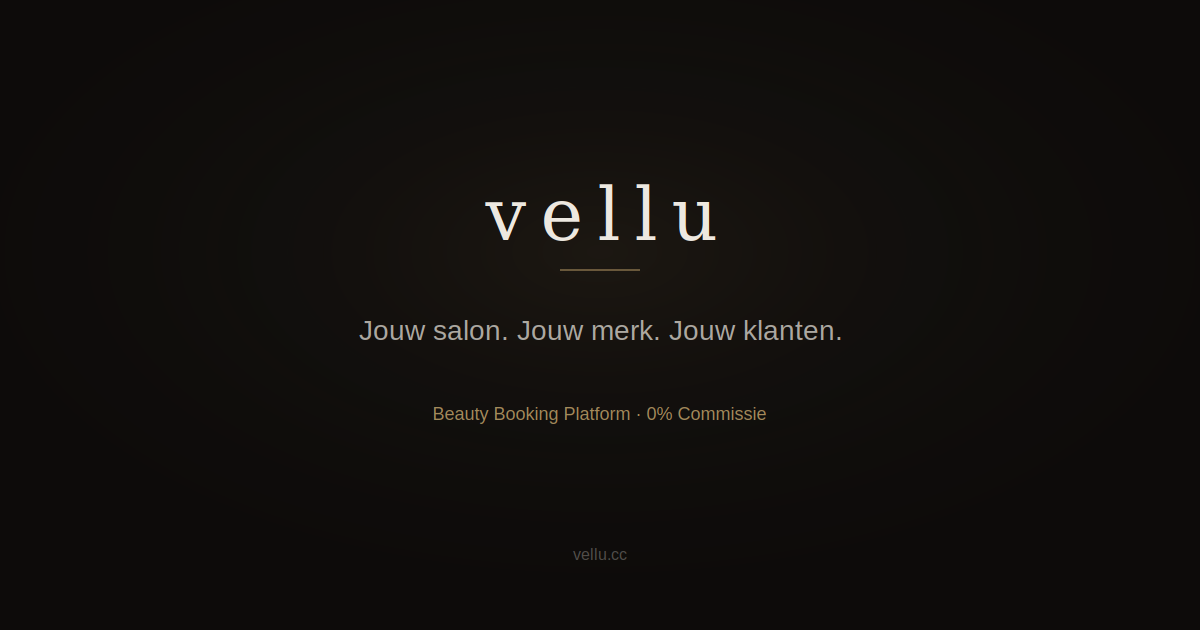
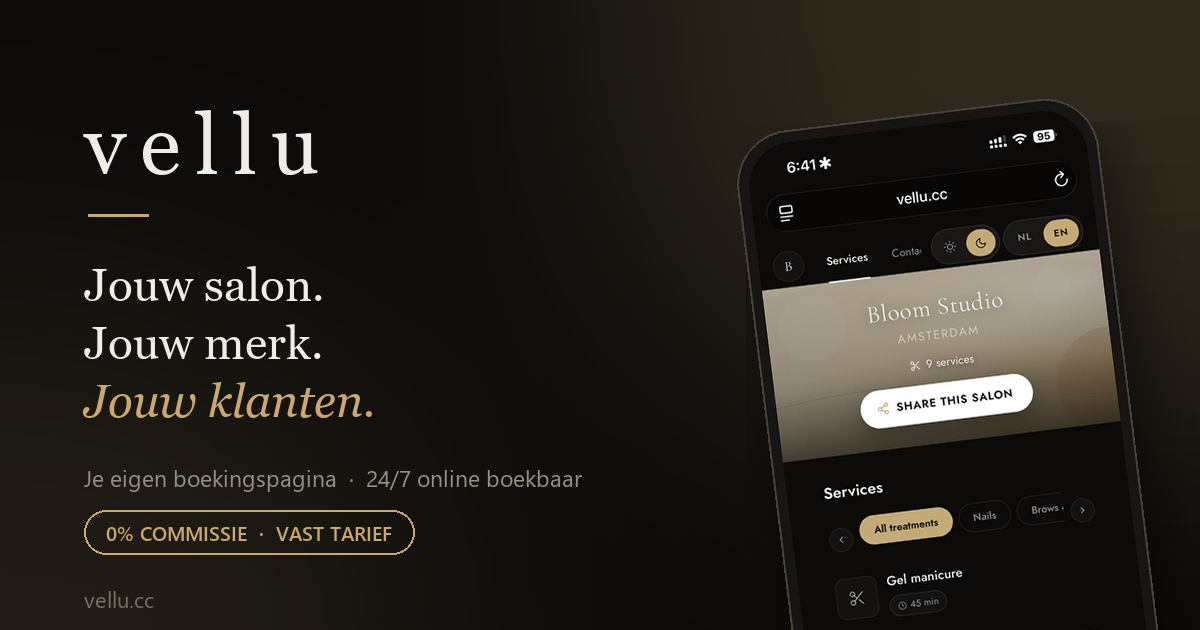
feat(landing): million-dollar pass - live demo-link, trust-line, product-og-image
Drie objectieve gaten t.o.v. top-SaaS landings gedicht:
- 'Bekijk een live voorbeeldpagina ->' onder de hero-telefoon, naar de
  demo-salon (/bloomstudio): screenshots overtuigen, klikken verkoopt.
- Bescheiden, feitelijke trust-line onder de hero-stats ('Gebruikt door
  salons in Nederland en het Caribisch gebied') - geen verzonnen quotes,
  wel echt bewijs. NL/EN/ES.
- Nieuwe og-image: echte boekingspagina in een gekantelde telefoon
  (vellu.cc zichtbaar in de adresbalk), merk-typografie + goud + 0%-pill,
  i.p.v. de kale wordmark-op-zwart. Dit is de eerste indruk bij elke
  gedeelde link in outreach-DM's.

diff --git a/src/LandingScreen.jsx b/src/LandingScreen.jsx
@@ -146,9 +146,27 @@ function LandingScreen({ onSelectSalon, onOwnerEnter, lang, setLang, salons = {}
                 </div>
               ))}
             </div>
+            {/* Quiet, truthful trust line — real salons in both markets use
+                Vellu today. No inflated numbers, no fabricated quotes. */}
+            <div className="hero-stats" style={{ display: "flex", marginTop: 22, fontSize: 11, color: c.textMuted, letterSpacing: "0.05em" }}>
+              {lang === "nl" ? "Gebruikt door salons in Nederland en het Caribisch gebied"
+                : lang === "es" ? "Utilizado por salones en los Países Bajos y el Caribe"
+                : "Used by salons in the Netherlands and the Caribbean"}
+            </div>
           </div>
           <div className="fade-up">
             <HeroPhoneMockup lang={lang} c={c} />
+            {/* "See it live" — screenshots convince, clicking sells. Links to
+                the seeded demo salon so a prospect can poke a REAL booking
+                page (clearly labelled as an example). */}
+            <div style={{ textAlign: "center", marginTop: 2 }}>
+              <button
+                onClick={() => navigate("/bloomstudio")}
+                style={{ background: "none", border: "none", cursor: "pointer", fontFamily: "'Jost',sans-serif", fontSize: 12, color: ACCENT, letterSpacing: "0.04em", padding: "8px 12px", borderBottom: `1px solid ${ACCENT}44` }}
+              >
+                {lang === "nl" ? "Bekijk een live voorbeeldpagina →" : lang === "es" ? "Ver una página de ejemplo en vivo →" : "See a live example page →"}
+              </button>
+            </div>
           </div>
         </div>
 
